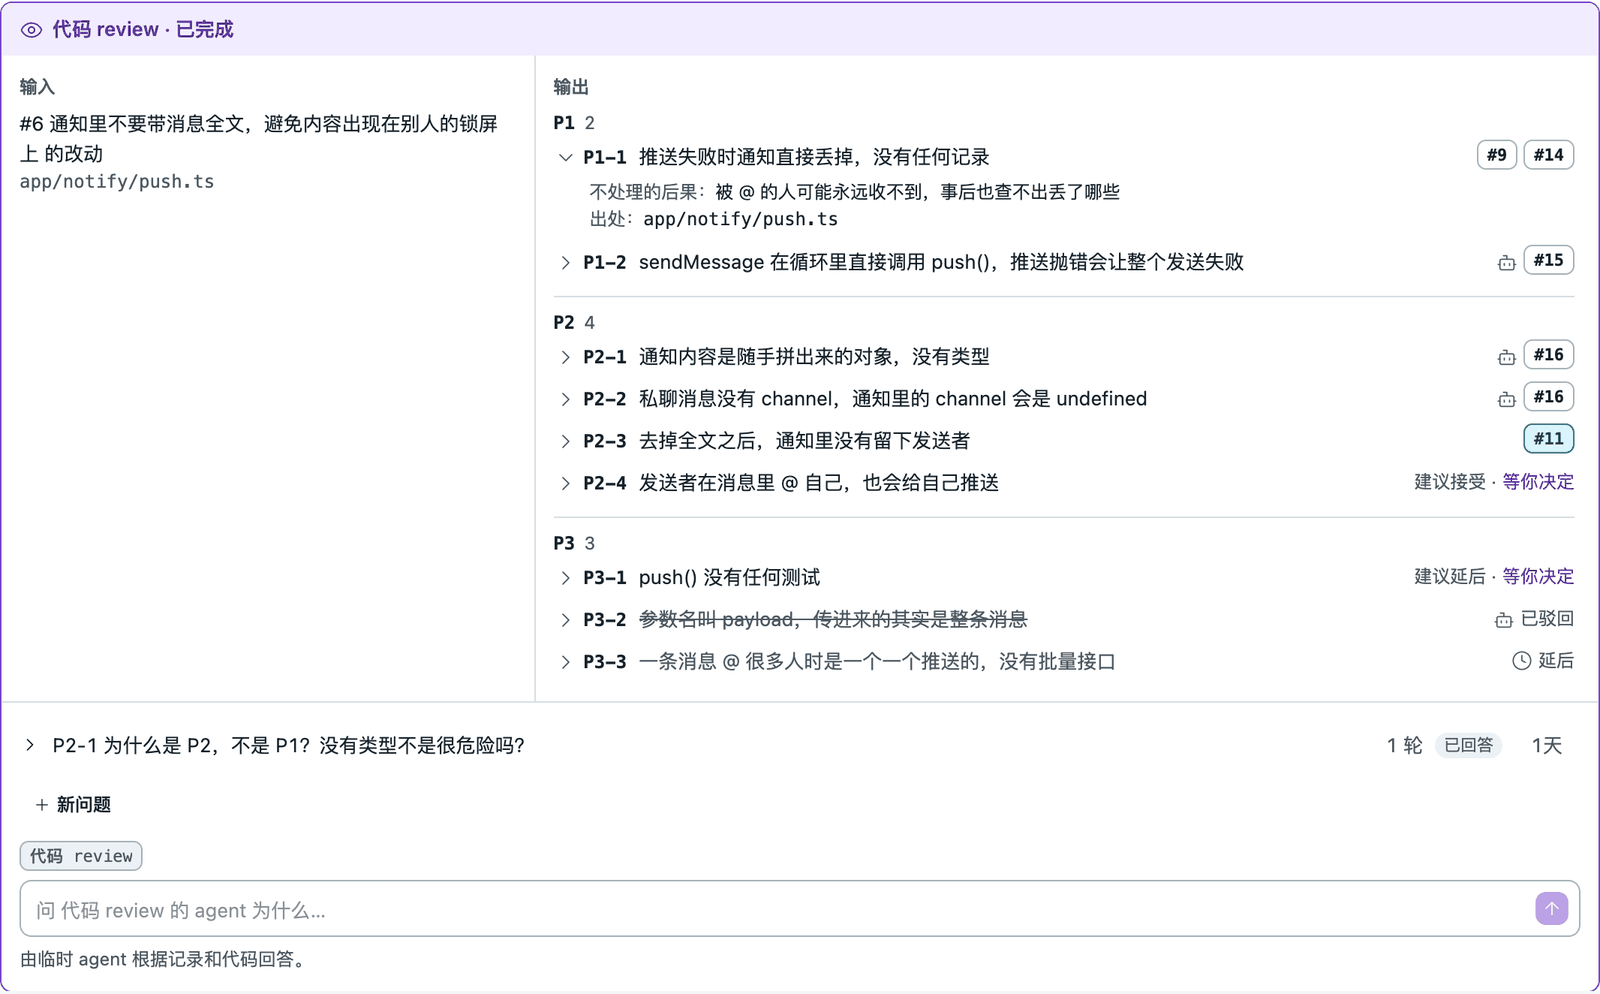
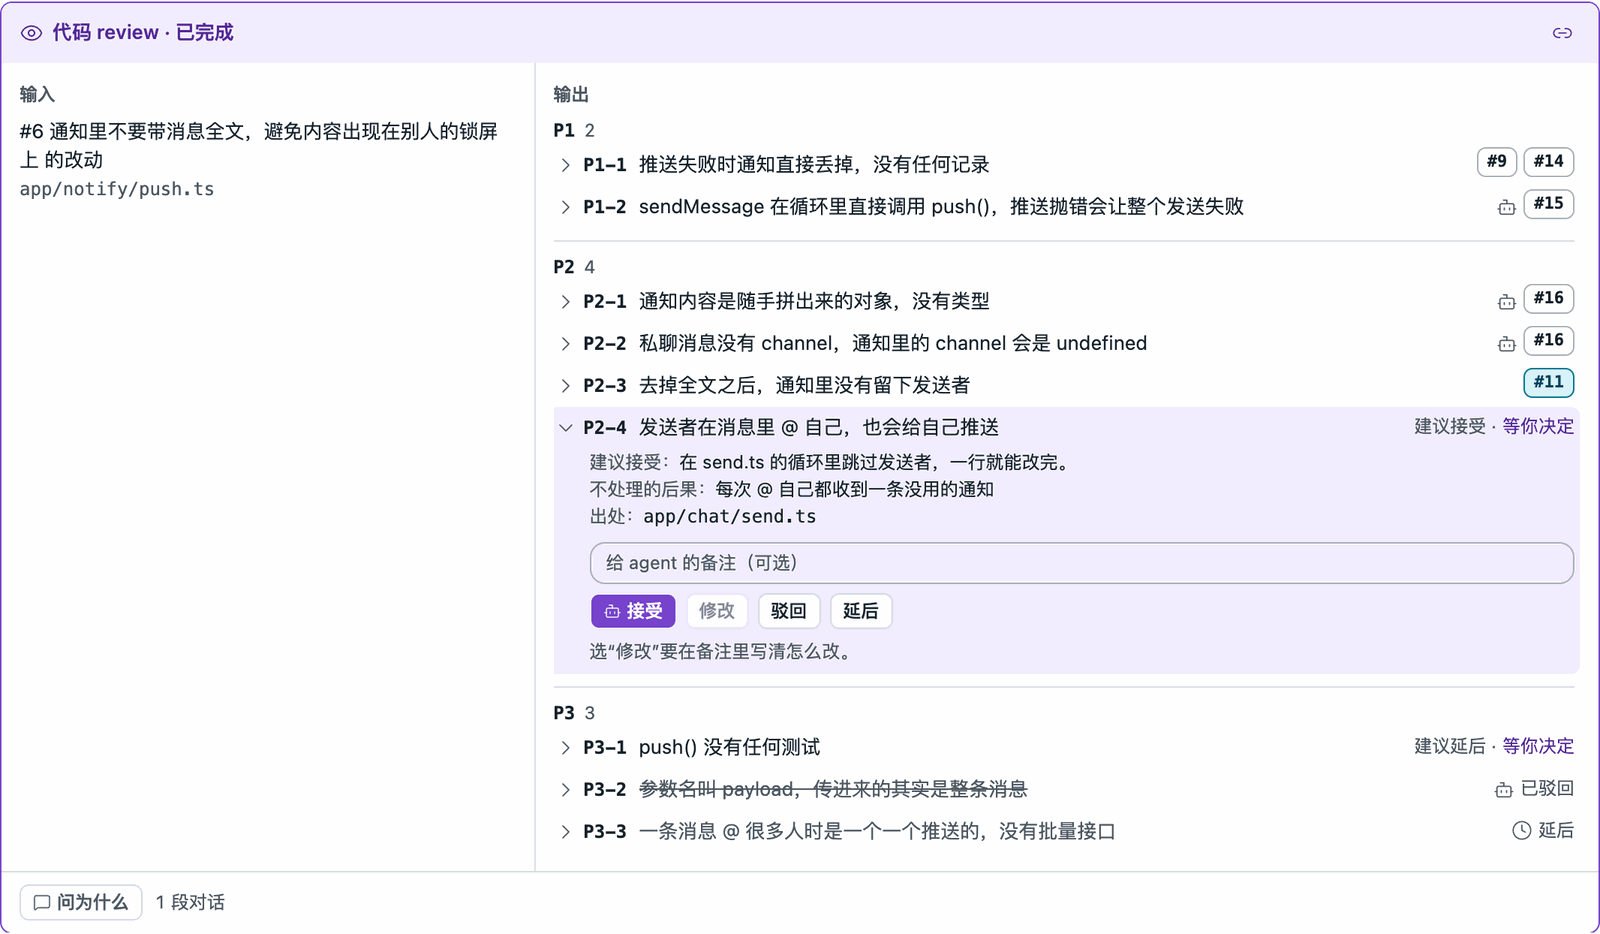
README: workriver as it is on main e03f1cb, pictures retaken
The narrative stays (why workriver exists, the four questions, one intent
from goal to merge), and every sentence now holds on main: starting an
intent from the page, the intent page and writing to its manager, research
units, findings decided by the manager by default ("Findings: Manual" for
the sample intent), Ask why in the side panel, managers asking through
Needs you, gate steps run from the page, machines, agents as a tree,
commits as a git graph, the minimap and scope marks, push, pull request
and merge as tasks. Gaps no longer list branches beyond the plan.

All pictures retaken from the sample data (VITE_MOCK=1): English UI for
README.md, Chinese for docs/README.zh-CN.md, 2x scaled to 1600 px (side
panel crops 680 px), 256 colours. Two new ones: the intent page with its
manager conversation, and Agents.

Sample data: main now gives 聊天 v2 its manager (mgr-chat), so the
duplicate manager keys the first merge left from u2#3 are gone; u2#3's
"findings": "user" stays, since the text and pictures show its findings
waiting for the user.

Task: u2#6

diff --git a/README.md b/README.md
@@ -39,16 +39,19 @@ Three things feed it:
   runs, so no harness is configured and nobody is anyone by saying so.
 - **[Herdr](https://herdr.dev) says who is running**, where, and in what state, and carries
   messages to agents.
-- **One manager agent per Herdr workspace plans.** It starts an intent from the project's
-  roadmap, splits it into units and tasks, and hands the tasks to worker agents.
+- **One manager agent per Herdr workspace plans.** It splits an intent into units and
+  tasks and hands the tasks to worker agents it starts by name. When it needs you (before a
+  merge, a deploy, anything destructive) it asks through Needs you, not in its terminal.
   workriver records and delivers; the manager schedules.
 
 What they report becomes one picture, in a few terms. A **project** is a folder of
 repositories. An **intent** is a goal in it. A **unit** is a piece of an intent built on
-its own branch. A **task** is one piece of work handed to one agent (implement, review,
-tests) or to you: a **gate**, a step only you can do, such as a manual deploy or try-out,
-that an agent waits on. A **finding** is a problem a review found. **Evidence** is a check
-run on a task's work, the command and its result.
+its own branch; research and design for the whole intent go in a research unit, which has
+no branch and is never merged. A **task** is one piece of work handed to one agent
+(implement, review, tests, research) or to you: a **gate**, a step only you can do, such
+as a manual deploy, a try-out or a decision, that an agent waits on. A **finding** is a
+problem a review found. **Evidence** is a check run on a task's work, the command and its
+result.
 
 ## One intent, from goal to merge
 
@@ -56,68 +59,94 @@ The pictures come from the sample data built into the UI: a chat app, its conten
 in Chinese.
 
 **The goal.** The chat app needs @-mentions, message recall and search. The intent
-"聊天 v2" waits in the project's roadmap with a one-sentence goal. You start it in a Herdr
-workspace; its manager splits it into units, one of them "加一个 @ 功能" (add @-mentions) on
-the branch `feat/mention`, and hands out the first tasks.
+"聊天 v2" waits in the project's roadmap with a one-sentence goal. You press "Start" next to
+it and pick the Herdr workspace "chat"; its manager, mgr-chat, is told and splits the
+intent into units, one of them "加一个 @ 功能" (add @-mentions) on the branch
+`feat/mention`. The intent has a page of its own: the goal, a note that grows as decisions
+are made, where it runs, who decides its findings, and its units with where each stands.
+"Write to the manager" opens a conversation beside it: what you write is typed into
+mgr-chat's terminal, and its replies come back to the page.
+
+![The page of the intent 聊天 v2: its goal, note, workspace and manager, findings set to Manual, its three units, and beside it a conversation with its manager](docs/images/intent-page.en.png)
 
 **The work as a graph.** Inside the unit, every task is a node in the activity graph, with
 an input and an output. #1 finds the people a message mentions, #2 notifies them, and a
 review follows each. When a review raises findings the flow branches: each accepted finding
 leads to new tasks, and the lines join again where the work does. An amber dotted line is
 work flowing now, dashed lines are secondary inputs, and a violet count marks findings
-waiting for you.
+waiting for you. A small "+N" under a node says its commits reached N folders that nothing
+before it on its line had touched: there the work grew in scope. A long graph opens on its
+latest work, with a minimap of the whole; zoomed out, as here, all of it shows.
 
-![The activity graph of the unit "加一个 @ 功能": implement tasks, the security and code reviews after them, the tasks the code review's findings led to, and a gate at the end](docs/images/activity-graph.en.png)
+![The activity graph of the unit "加一个 @ 功能": implement tasks, the security and code reviews after them, the tasks the code review's findings led to, two marked where the scope grew, a dropped question to merge, and a try-out gate near the end](docs/images/activity-graph.en.png)
 
 **Why a node is the way it is.** Pick a node and its detail says what went in and what came
 out. Task #1 was asked to find the people mentioned in a message; it delivered the commit
-"feat(chat): find the people mentioned in a message" and a check,
-`npm test app/chat/mention.test.ts`, 6 passed. Evidence is recorded the same way whoever ran
-it. Below it you can ask why: a temporary agent answers from the records and the code, and
-asks the agent that did the work only when that agent is idle.
+"feat(chat): find the people mentioned in a message", its reports and screenshots, and a
+check, `npm test app/chat/mention.test.ts`, 6 passed. Evidence is recorded the same way
+whoever ran it. "Ask why" opens a question in the side panel: a temporary agent answers
+from the records and the code, and asks the agent that did the work only while that agent
+is idle. With no node picked, the question is about the whole unit.
 
-![The detail of task #1: its input, its output with the commit and a passed check, and the box to ask its agent why](docs/images/task-detail.en.png)
+![The detail of task #1: its input, its output with the commit, attachments and a passed check, and Ask why](docs/images/task-detail.en.png)
 
 **Findings, decided once.** The code review of #6 found nine problems, rated P1 to P3. Each
-is accepted, revised (accepted, but fixed your way), rejected or deferred. P1-1 was
-accepted and led to tasks #9 and #14; P3-2 was rejected; P3-3 was deferred to the project's
-backlog, where deferred findings wait to be done together in one batch or dropped; P2-4
-waits for you, with the reviewer's suggestion next to it. By default the intent's manager
-decides findings and you can always decide differently; for 聊天 v2 you set "Findings
-decided by: only me" in the rail, so its findings wait for you. Every decision goes to
-the manager, and an accepted finding stays visible on the tasks it caused, since
-that work must meet it.
+is accepted, revised (accepted, but fixed your way), rejected or deferred. By default the
+intent's manager decides them: a decision it made carries a small robot, like P1-2 and the
+rejected P3-2, and you can always decide differently. P1-1 was accepted and led to tasks #9
+and #14; P3-3 was deferred to the project's backlog, where deferred findings wait to be
+done together in one batch or dropped. On its page 聊天 v2 is set to "Findings: Manual", so
+what is still open waits for you: P2-4 and P3-1, each with the reviewer's suggestion. Every
+decision goes to the manager, and an accepted finding stays visible on the tasks it caused,
+since that work must meet it.
 
-![The code review of task #6: nine findings grouped by severity, one expanded with its impact and place, others accepted with the tasks they led to, rejected, deferred, or waiting for you](docs/images/review-findings.en.png)
+![The code review of task #6: nine findings grouped by severity, P2-4 open with the reviewer's suggestion, its impact and place and the four decisions, others accepted with the tasks they led to, decided by the manager, rejected or deferred](docs/images/review-findings.en.png)
 
 **What is waiting on you.** Needs you is one queue across every workspace. First what
-blocks someone: agents waiting for a person in their terminal, and gates. Here an agent
-waits for you to try whether an @ notification says who mentioned you. Then decisions on
-findings, then
-gaps such as a commit that names no task or a branch that grew beyond the plan, and last
-the chores that block nobody.
+blocks someone: agents waiting for a person in their terminal, workers that stopped
+without delivering, and gates, among them the questions a manager asks you (merge now?
+which design?). Here agent-E asks whether it may run `npm test`, and a gate waits for you
+to try whether an @ notification says who mentioned you; its steps are commands, each with
+"Run", which runs it in a shell of your own once you confirm it. Then machines past an
+alert threshold, then decisions on findings, then gaps such as a commit that names no
+task, and last the chores that block nobody.
 
-<img src="docs/images/needs-you.en.png" width="340" alt="Needs you: one gate blocking, six reviews with findings to decide, and three gaps: a branch beyond its plan and two commits that name no task">
+<img src="docs/images/needs-you.en.png" width="340" alt="Needs you: three rows blocking (an agent waiting in its terminal, a worker that stopped, a try-out gate), four machine alerts, and the first decisions on findings">
+
+**Who is doing what.** Agents are a tree by Herdr workspace: the manager, the workers under
+it with the task each is on, and the temporary agents answering questions under the worker
+they ask about. A blocked agent comes first with a violet hand, a gone one is greyed, and a
+worker idle with nothing to do says it can be closed. Machines shows CPU, memory, pressure,
+swap and disk of this machine and of the others followed over ssh, so heavy work does not
+go to one that is already struggling.
+
+<img src="docs/images/agents.en.png" width="340" alt="Agents: the chat workspace with mgr-chat and its workers, one blocked, question agents under the worker they ask about, workers that can be closed, and the workspaces hardening, notes, ops and perf">
 
 **Which code it reached.** Under the graph, the unit's changes as a file tree beside the
 diff, commit by commit. Files a task plans to change but has not touched yet show as
-dashed circles, and an agent writing in a file right now carries its mark there.
+dashed circles, and an agent writing in a file right now carries its mark there. Commits,
+in the side panel, draws every unit's commits as a git graph, one lane per branch, with
+what agents are writing right now on top.
 
 ![The unit's code: a file tree with added and modified files and planned ones, beside the diff of the commit that added app/chat/mention.ts](docs/images/code-tree-diff.en.png)
 
-**Merge.** The try-out passes, you mark the gate done, the last tasks deliver, and the
-branch is merged. workriver sees the merge in git and the unit reads "Merged" with its
-date. Once every unit of the intent is merged or done, its header says "Finished", for its
-manager to close it.
+**Merge.** The try-out passes, you mark the gate done, and the last tasks deliver. The
+manager asks in Needs you whether to merge; after your yes, push, pull request and merge
+are each a task of their own. workriver sees the merge in git and the unit reads "Merged"
+with its date; a squash merge, which git cannot show, is pointed out for the manager to
+record. A research unit is never merged: once its work is decided it reads "Ready to
+close". When every unit of the intent is merged or done, its header says "Finished", for
+its manager to close it, along with the workers it no longer needs.
 
 ## Status
 
 First version, usable. The service records intents, units, tasks, findings and chores,
 reads the units' commits from git, follows the agents running in Herdr, keeps each
-project's roadmap and backlog, delivers your decisions and gate results to the right
-agent, and serves the web UI on real data. Agents on other machines (each with its own
-Herdr) can be followed over ssh; that part is new and has only been tested against
-stand-ins.
+project's roadmap and backlog, delivers your decisions, gate results and messages to the
+right agent, runs the commands you confirm in your own shell, watches the machines' load,
+and serves the web UI on real data in English and Chinese. Agents on other machines (each
+with its own Herdr) can be followed over ssh; that part is new and has only been tested
+against stand-ins.
 
 ## Build and run
 
